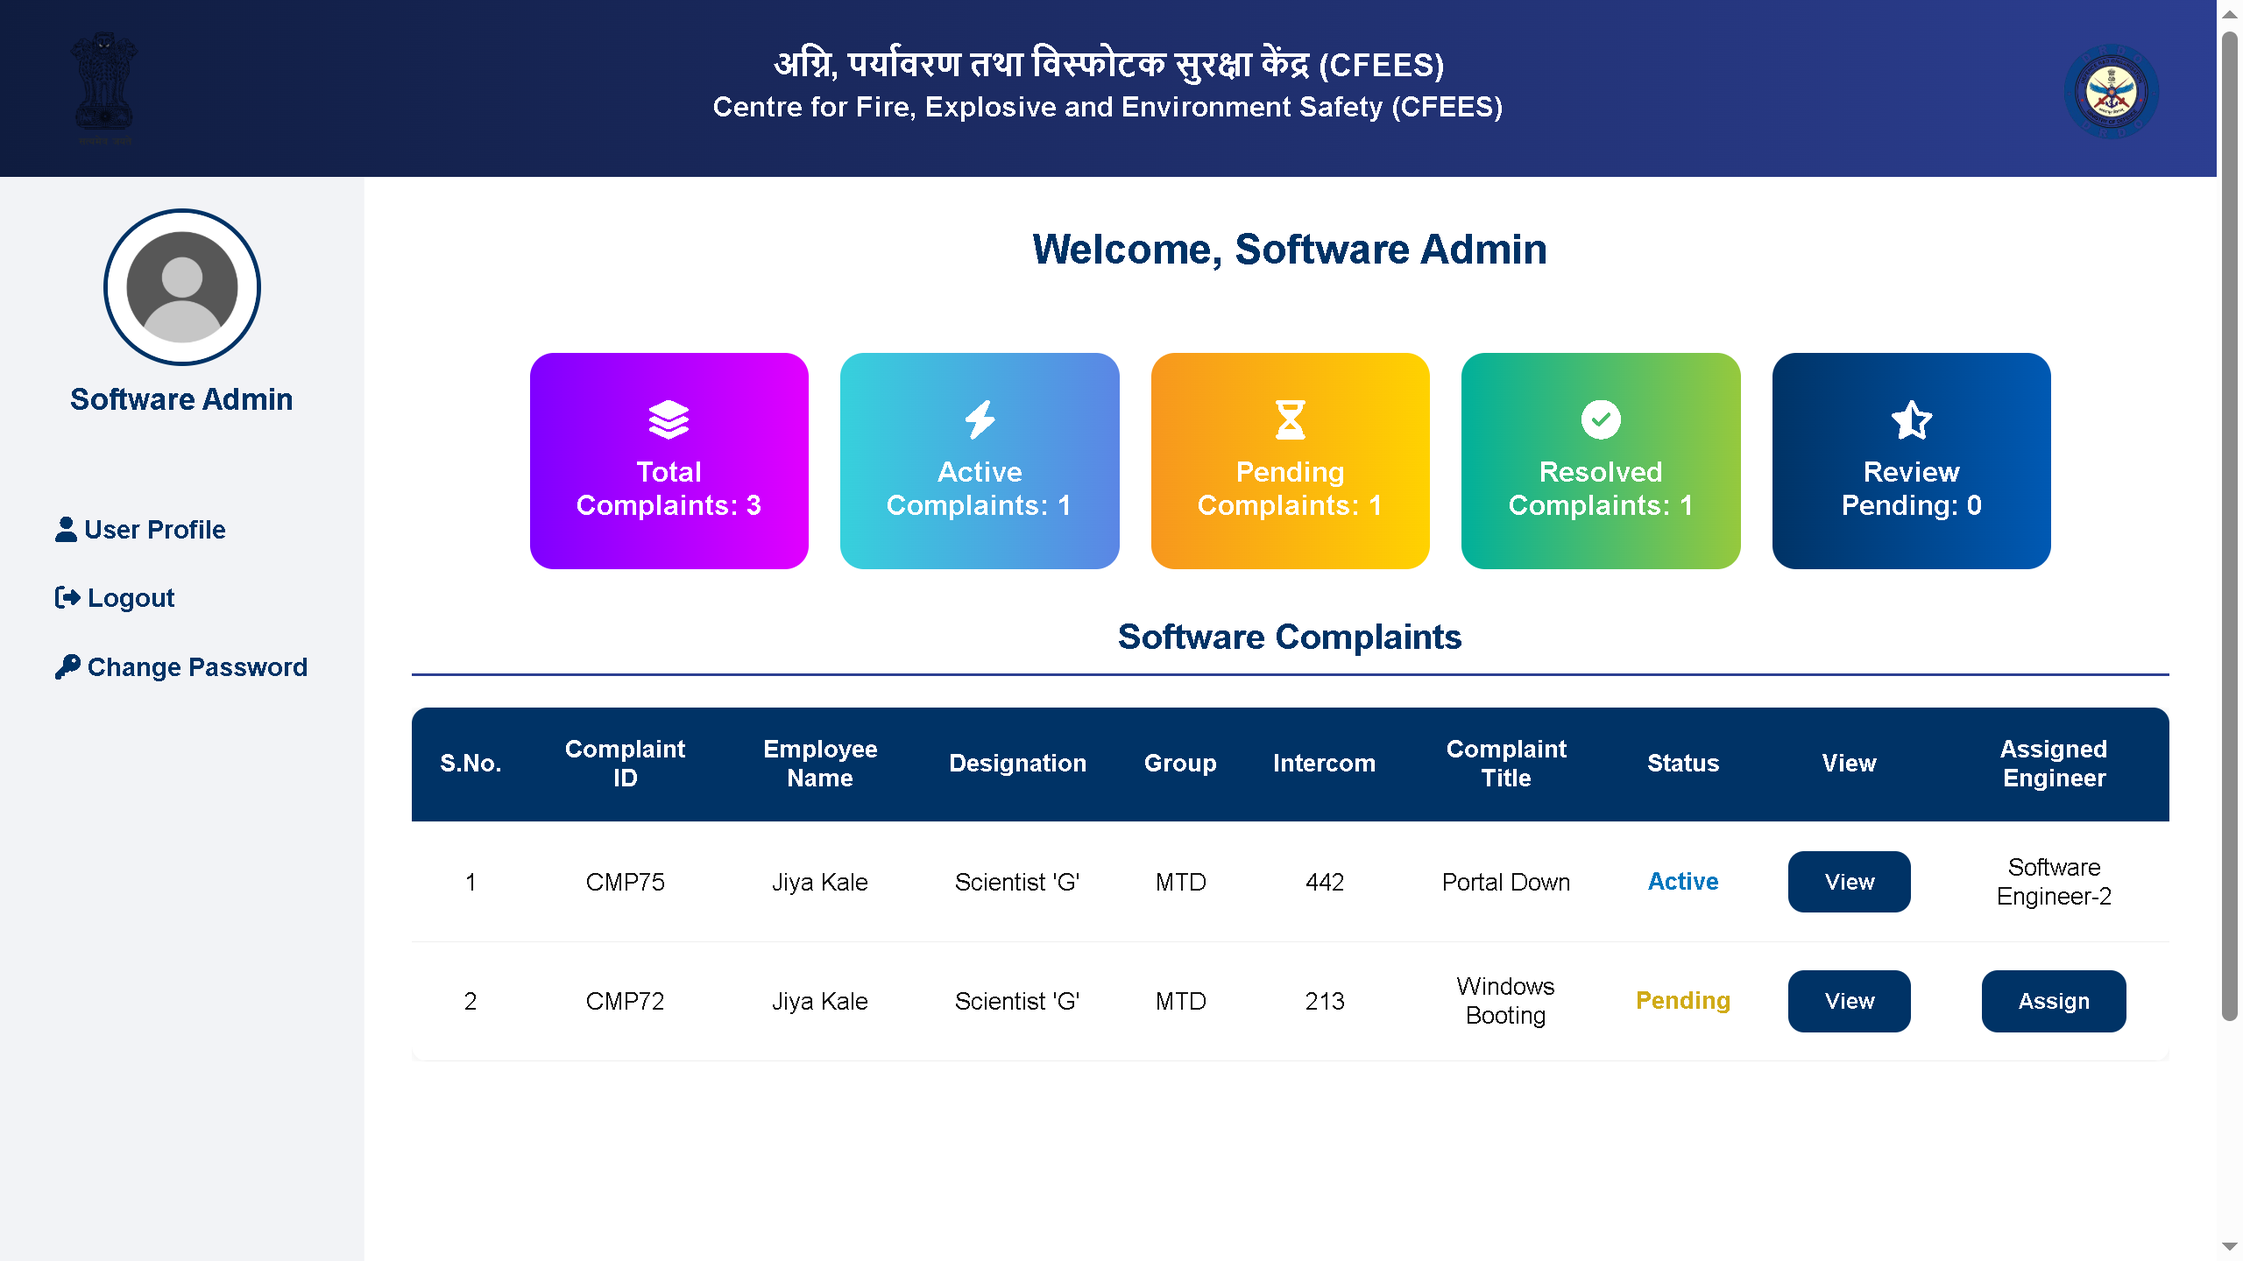
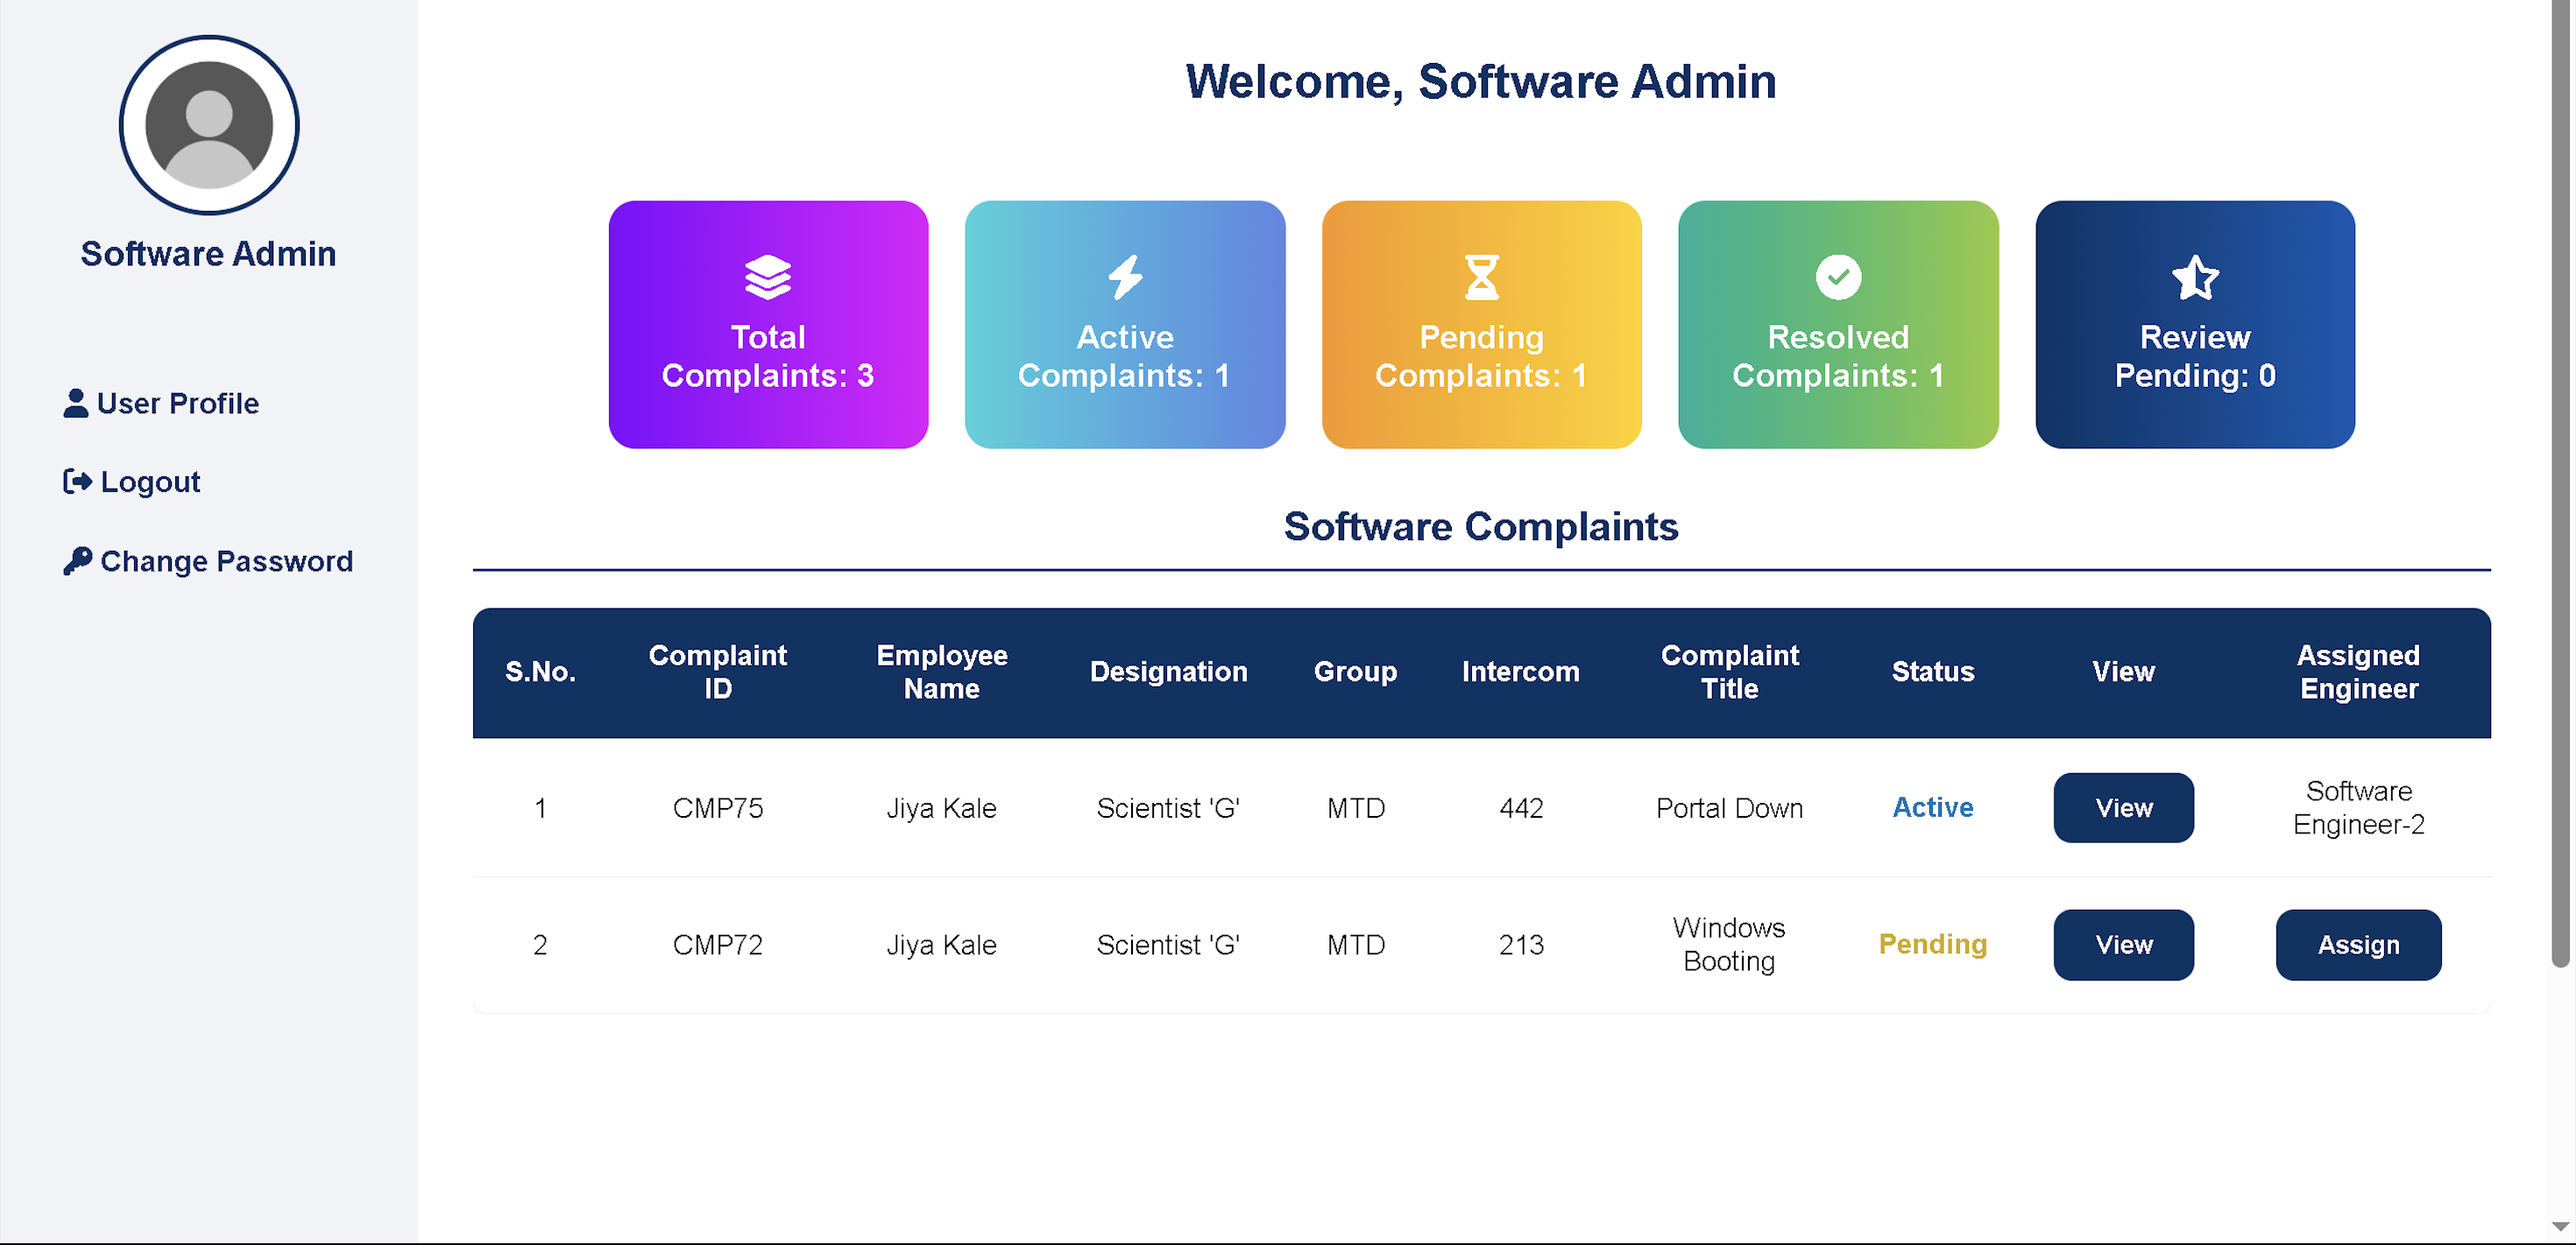
mini project

diff --git a/frontend/src/data/portfolioData.js b/frontend/src/data/portfolioData.js
@@ -2,8 +2,8 @@ export const personalInfo = {
   name: 'Aman Goel',
   initials: 'AG',
   title: 'Full-Stack Developer & Tech Enthusiast',
-  tagline:
-    'I craft fast, accessible, and delightfully animated web experiences — turning ideas into pixel-perfect products.',
+  tagline: `I craft fast, accessible, and delightfully animated web experiences
+- turning ideas into pixel-perfect products.`,
   location: 'Delhi, India',
   github: 'Github',
   githuburl: 'https://github.com/Amangoel22',
@@ -94,7 +94,7 @@ export const projects = [
     image: '/projects/portfoliov2.png',
     liveUrl: 'https://aman-portfolio-website-10.netlify.app/',
   },
-    {
+  {
     id: 'p-2',
     title: 'DeepTrace',
     description:
@@ -111,31 +111,38 @@ export const projects = [
     icon: 'fa-solid fa-screwdriver-wrench',
     image: '/projects/cms.png',
   },
+]
+
+export const minorProjects = [
   {
-    id: 'p-4',
+    id: 'mp-1',
+    title: 'Air Pollution Tracker',
+    icon: 'fa-solid fa-smog',
+    description: 'IoT based air pollution monitor. Powered by Arduino.',
+    image: '/projects/iot.png',
+  },
+  {
+    id: 'mp-2',
+    title: 'Memory Card Game',
+    description: 'A fun and interactive Memory Card Game built to challenge focus and recall. Flip cards, find matching pairs, and beat your best score.',
+    icon: 'fa-solid fa-brain',
+    image: '/projects/memory_card.png',
+    liveUrl: 'https://pair-card-game.vercel.app/',
+    codeUrl: 'https://github.com/Amangoel22/Memory-Card-Game',
+  },
+  {
+    id: 'mp-3',
     title: 'Simon Game',
-    description:
-      'A web-based implementation of the classic Simon Game. Gameplay involves replicating increasingly complex sequences of colors and sounds.',
+    description: 'A web-based implementation of the classic Simon Game. Gameplay involves replicating increasingly complex sequences of colors and sounds.',
     icon: 'fa-solid fa-cubes',
     image: '/projects/simon.png',
     codeUrl: 'https://github.com/Amangoel22/Simon-Game',
     liveUrl: 'https://simon-game-iota-seven.vercel.app/',
   },
   {
-    id: 'p-5',
-    title: 'Memory Card Game',
-    description:
-      'A fun and interactive Memory Card Game built to challenge focus and recall. Flip cards, find matching pairs, and beat your best score.',
-    icon: 'fa-solid fa-brain',
-    image: '/projects/memory_card.png',
-    codeUrl: 'https://github.com/Amangoel22/Memory-Card-Game',
-    liveUrl: 'https://pair-card-game.vercel.app/',
-  },
-  {
-    id: 'p-6',
+    id: 'mp-4',
     title: 'Crypto Price Tracker',
-    description:
-      'A live API powered crypto price tracker which provides a detailed analysis of each crypto currency.',
+    description: 'A live API powered crypto price tracker which provides a detailed analysis of each crypto currency.',
     icon: 'fa-solid fa-arrow-trend-up',
     image: '/projects/crypto.png',
     codeUrl: 'https://github.com/Amangoel22/Live-Crypto-Price-Tracker',
@@ -144,10 +151,10 @@ export const projects = [
 ]
 
 export const skills = {
-  Frontend: ['HTML','CSS','JavaScript','Bootstrap','React','Tailwind CSS'],
-  Backend: ['Node.js', 'Express.js', 'PostgreSQL','MySQL','Php','EJS'],
-  'Tools & DevOps': ['Git', 'Github', 'Vercel', 'Render', 'Netlify', 'PhpMyAdmin', 'WAMP', 'XAMPP'],
-  'Languages': ['JavaScript', 'Python', 'C', 'C++', 'Java','Php'],
+  Frontend: ['HTML', 'CSS', 'JavaScript', 'Bootstrap', 'React', 'Tailwind CSS'],
+  Backend: ['Node.js', 'Express.js', 'PostgreSQL', 'MySQL', 'Php', 'EJS'],
+  'Tools': ['Git', 'Github', 'Vercel', 'Render', 'Netlify', 'PhpMyAdmin', 'WAMP', 'XAMPP'],
+  'Languages': ['JavaScript', 'Python', 'C', 'C++', 'Java', 'Php'],
 }
 
 export const certificates = [
@@ -181,9 +188,9 @@ export const certificates = [
 ]
 
 export const achievements = [
-  'Top 22% at Leetcode Contents (As of May 2026)',
+  'Top 19% at Leetcode Contents (As of May 2026)',
   'Smart India Hackathon - Internal Hackathon Winner',
-  'House Prefect - Captain (Goodley Public School)',
+  'House Prefect - Captain',
   '7 Days DSA Challenge - CodeGeeks',
   'Literary Competition Winner - Story Telling',
   'Academic Rank Holder',

diff --git a/frontend/src/components/ProjectCard.jsx b/frontend/src/components/ProjectCard.jsx
@@ -15,7 +15,6 @@ export default function ProjectCard({
 }) {
   const cardRef = useRef(null)
 
-  // 3D mouse tilt — disabled on touch / coarse-pointer devices
   const isFinePointer =
     typeof window !== 'undefined' &&
     window.matchMedia &&
@@ -49,10 +48,8 @@ export default function ProjectCard({
       }}
       className={`group relative bg-white dark:bg-gray-800 rounded-2xl overflow-hidden shadow-sm border border-gray-100 dark:border-gray-700 transition-[transform,box-shadow,border-color] duration-500 hover:shadow-2xl hover:shadow-blue-500/15 hover:border-blue-300/70 dark:hover:border-blue-700/70 flex flex-col animate-on-scroll fade-up ${delay}`}
     >
-      {/* Animated glow */}
       <div className="pointer-events-none absolute -inset-px rounded-2xl opacity-0 group-hover:opacity-100 transition-opacity duration-500 bg-gradient-to-tr from-blue-500/0 via-blue-500/10 to-indigo-500/20 blur-xl" />
 
-      {/* Image / Icon area */}
       {image ? (
         <div className="relative aspect-[16/10] overflow-hidden bg-gradient-to-br from-blue-50 to-indigo-50 dark:from-gray-900 dark:to-gray-800">
           <img
@@ -61,7 +58,7 @@ export default function ProjectCard({
             className="w-full h-full object-cover transition-transform duration-700 group-hover:scale-110"
           />
           <div className="absolute inset-0 bg-gradient-to-t from-black/60 via-black/0 to-black/0 opacity-0 group-hover:opacity-100 transition-opacity duration-500" />
-          {/* Live link floating */}
+
           {liveUrl && (
             <a
               href={liveUrl}
@@ -76,7 +73,6 @@ export default function ProjectCard({
       ) : null}
 
       <div className="p-8 flex-1 flex flex-col">
-        {/* Header row */}
         <div className="flex justify-between items-start mb-6">
           {!image && icon && (
             <div className="relative w-12 h-12 bg-blue-50 dark:bg-blue-900/20 rounded-xl flex items-center justify-center text-blue-600 dark:text-blue-400 transition-transform duration-500 group-hover:rotate-6 group-hover:scale-110">
@@ -117,12 +113,10 @@ export default function ProjectCard({
           </div>
         </div>
 
-        {/* Title */}
         <h3 className="text-xl font-bold text-gray-900 dark:text-white mb-3 group-hover:text-blue-600 dark:group-hover:text-blue-400 transition-colors">
           {title}
         </h3>
 
-        {/* Description */}
         <p className="text-gray-600 dark:text-gray-300 mb-6 flex-1 leading-relaxed">
           {description}
         </p>

diff --git a/frontend/src/components/MinorProjects.jsx b/frontend/src/components/MinorProjects.jsx
@@ -1,19 +1,16 @@
 import ProjectCard from './ProjectCard'
-import { projects } from '../data/portfolioData'
+import { minorProjects } from '../data/portfolioData'
 
 const DELAYS = [
   'delay-100',
   'delay-200',
   'delay-300',
-  'delay-100',
-  'delay-200',
-  'delay-300',
 ]
 
-export default function Projects() {
+export default function MinorProjects() {
   return (
     <section
-      id="projects"
+      id="minor-projects"
       className="py-14 sm:py-16 md:py-20 px-4 sm:px-6 lg:px-8 relative overflow-hidden"
     >
       <div className="absolute top-1/4 left-0 w-72 h-72 bg-blue-300/10 dark:bg-blue-700/10 rounded-full blur-3xl animate-float-slower pointer-events-none" />
@@ -22,13 +19,13 @@ export default function Projects() {
       <div className="max-w-6xl mx-auto relative">
         <div className="text-center mb-16 animate-on-scroll fade-up">
           <h2 className="text-3xl md:text-4xl font-bold text-gray-900 dark:text-white mb-4">
-            Featured Projects
+            Minor Projects
           </h2>
           <div className="w-20 h-1.5 bg-gradient-to-r from-blue-500 to-indigo-500 mx-auto rounded-full animate-shimmer" />
         </div>
 
         <div className="grid grid-cols-1 md:grid-cols-2 lg:grid-cols-3 gap-8">
-          {projects.map((project, i) => (
+          {minorProjects.map((project, i) => (
             <ProjectCard
               key={project.id}
               {...project}

diff --git a/frontend/src/App.jsx b/frontend/src/App.jsx
@@ -15,11 +15,11 @@ import Contact from './components/Contact'
 import Footer from './components/Footer'
 import MusicPlayer from './components/MusicPlayer'
 import BackToTop from './components/BackToTop'
+import MinorProjects from './components/MinorProjects'
 
 export default function App() {
   const { isDark, toggleTheme } = useTheme()
 
-  // Always start at the top on initial load
   useEffect(() => {
     if ('scrollRestoration' in window.history) {
       window.history.scrollRestoration = 'manual'
@@ -27,7 +27,6 @@ export default function App() {
     window.scrollTo(0, 0)
   }, [])
 
-  // Scroll-reveal observer (reads .animate-on-scroll classes)
   useScrollReveal()
 
   return (
@@ -40,12 +39,12 @@ export default function App() {
         <About />
         <Experience />
         <Projects />
+        <MinorProjects />
         <Skills />
         <Achievements />
         <Certificates />
         <Contact />
       </main>
-
       <Footer />
       <MusicPlayer />
       <BackToTop />

diff --git a/frontend/index.html b/frontend/index.html
@@ -8,18 +8,15 @@
   <meta name="theme-color" content="#0b1220" />
   <title>Portfolio</title>
 
-  <!-- Inter + Geist Mono fonts -->
   <link rel="preconnect" href="https://fonts.googleapis.com" />
   <link rel="preconnect" href="https://fonts.gstatic.com" crossorigin />
   <link
     href="https://fonts.googleapis.com/css2?family=Inter:wght@300;400;500;600;700;800&family=Geist+Mono:wght@400;500;600&display=swap"
     rel="stylesheet" />
 
-  <!-- Font Awesome (icons used across components) -->
   <link rel="stylesheet" href="https://cdnjs.cloudflare.com/ajax/libs/font-awesome/6.5.2/css/all.min.css"
     crossorigin="anonymous" referrerpolicy="no-referrer" />
 
-  <!-- Prevent dark-mode flash before React mounts -->
   <script>
     (function () {
       try {
